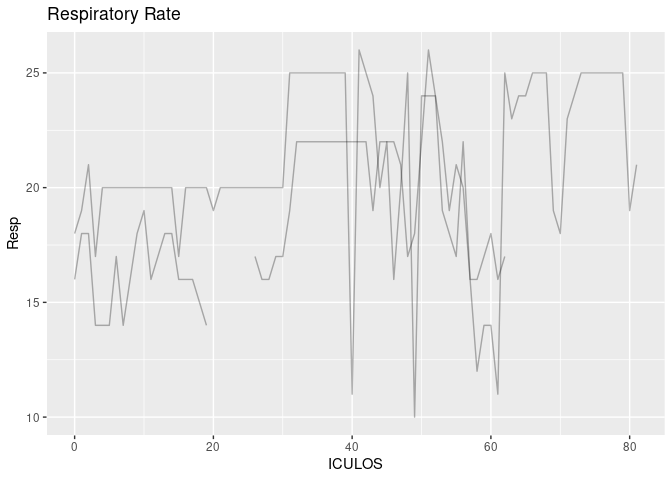
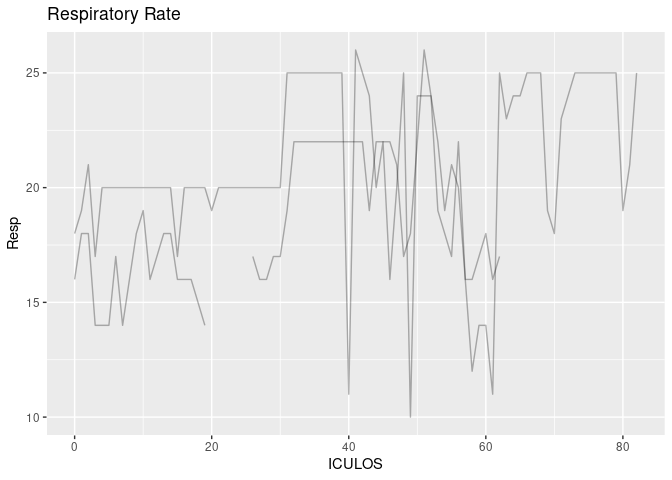
Updated report

diff --git a/A7.md b/A7.md
@@ -21,7 +21,7 @@ most_recent_data <- new_data %>%
 
 Date and time of the report
 
-    [1] "2023-04-10 03:13:28 UTC"
+    [1] "2023-04-10 04:15:24 UTC"
 
 Patient who have sepsis right now
 
@@ -34,7 +34,7 @@ most_recent_data %>% filter(SepsisLabel == 1) %>% select(PatientID, HR, Temp, Re
       PatientID    HR  Temp  Resp
       <chr>     <dbl> <dbl> <dbl>
     1 000346       73  NA      17
-    2 004694       65  36.4    21
+    2 004694       78  36.4    25
 
 Plots for patients who have sepsis
 
@@ -85,53 +85,53 @@ Table <- new_data %>%
     # A tibble: 50 × 4
        PatientID diff_hr diff_temp diff_resp
        <chr>       <dbl>     <dbl>     <dbl>
-     1 000073         -4    NA             2
-     2 000135         10     0.100         0
-     3 000287         NA    NA            NA
-     4 000346        -10    NA             1
-     5 000617         NA    NA            NA
-     6 001145          1    -0.200        -2
-     7 001467        -13    NA             3
-     8 001500         -5    NA             0
-     9 001563         NA    NA            NA
-    10 001748          1    NA            -9
-    11 001851         -9    NA             1
-    12 001904         NA    NA            NA
-    13 002175        -21    NA            -1
-    14 002240        -23    NA             0
-    15 002638          1    NA             7
-    16 003133          7    NA            -1
-    17 003195         -8    NA           -17
-    18 003242          0    NA             2
-    19 003471          1    NA            NA
-    20 003492          3    NA             5
-    21 003524          7    NA            12
-    22 003550          2    NA             9
-    23 003642          3    NA             0
-    24 003683         -3    NA            -5
-    25 003823          1    NA             1
-    26 003872        -12    NA             3
-    27 003876         -2    NA            -5
-    28 003883         -3    NA             0
-    29 004089         NA    NA            NA
-    30 004246         NA    NA            NA
-    31 004331        -15    NA            -2
-    32 004694         -4     0             2
-    33 004753          3     0.100         0
-    34 004853        -24    NA             0
-    35 005001         11    NA            -2
-    36 005894         16    NA             2
-    37 006520          1    NA            -1
-    38 006901          4    NA             5
-    39 007045          4    NA             0
-    40 007324         -3    NA            -3
-    41 007612        -13    NA            -7
-    42 007959         NA    NA            NA
-    43 008791          1    NA            -3
-    44 008820         -7    NA            -2
-    45 008937         26    NA            -5
-    46 009562         NA    NA            NA
-    47 009606          9    NA            21
-    48 009732          1    NA            -1
-    49 009748          3    NA            -2
-    50 009818          2    NA            -6
+     1 000073         -4   NA              2
+     2 000135         10    0.100          0
+     3 000287         NA   NA             NA
+     4 000346        -10   NA              1
+     5 000617         NA   NA             NA
+     6 001145          1   -0.200         -2
+     7 001467        -13   NA              3
+     8 001500         -5   NA              0
+     9 001563         NA   NA             NA
+    10 001748          1   NA             -9
+    11 001851         -9   NA              1
+    12 001904         NA   NA             NA
+    13 002175        -21   NA             -1
+    14 002240        -23   NA              0
+    15 002638          1   NA              7
+    16 003133          7   NA             -1
+    17 003195         -8   NA            -17
+    18 003242          0   NA              2
+    19 003471          1   NA             NA
+    20 003492          3   NA              5
+    21 003524          7   NA             12
+    22 003550          2   NA              9
+    23 003642          3   NA              0
+    24 003683         -3   NA             -5
+    25 003823          1   NA              1
+    26 003872        -12   NA              3
+    27 003876         -2   NA             -5
+    28 003883         -3   NA              0
+    29 004089         NA   NA             NA
+    30 004246         NA   NA             NA
+    31 004331        -15   NA             -2
+    32 004694         13    0.0500         4
+    33 004753          3    0.100          0
+    34 004853        -24   NA              0
+    35 005001         11   NA             -2
+    36 005894         16   NA              2
+    37 006520          1   NA             -1
+    38 006901          4   NA              5
+    39 007045          4   NA              0
+    40 007324         -3   NA             -3
+    41 007612        -13   NA             -7
+    42 007959         NA   NA             NA
+    43 008791          1   NA             -3
+    44 008820         -7   NA             -2
+    45 008937         26   NA             -5
+    46 009562         NA   NA             NA
+    47 009606          9   NA             21
+    48 009732          1   NA             -1
+    49 009748          3   NA             -2
+    50 009818          2   NA             -6
